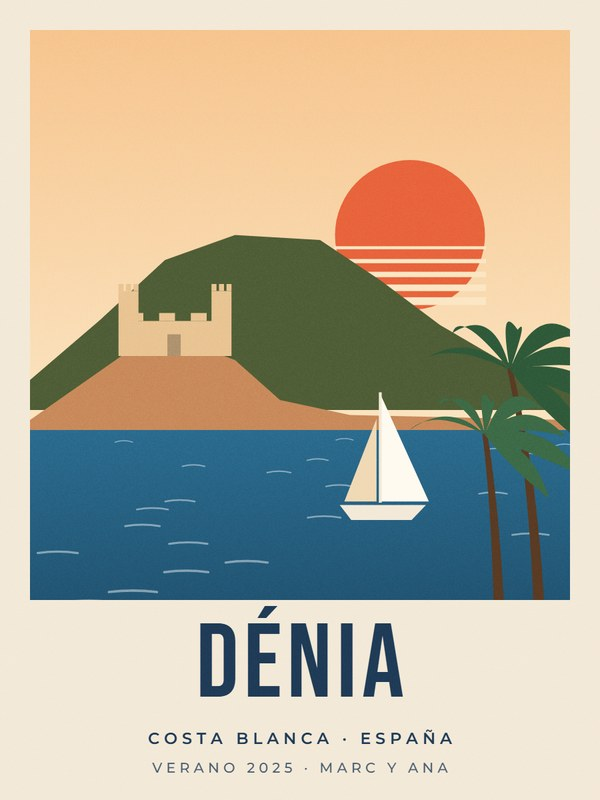
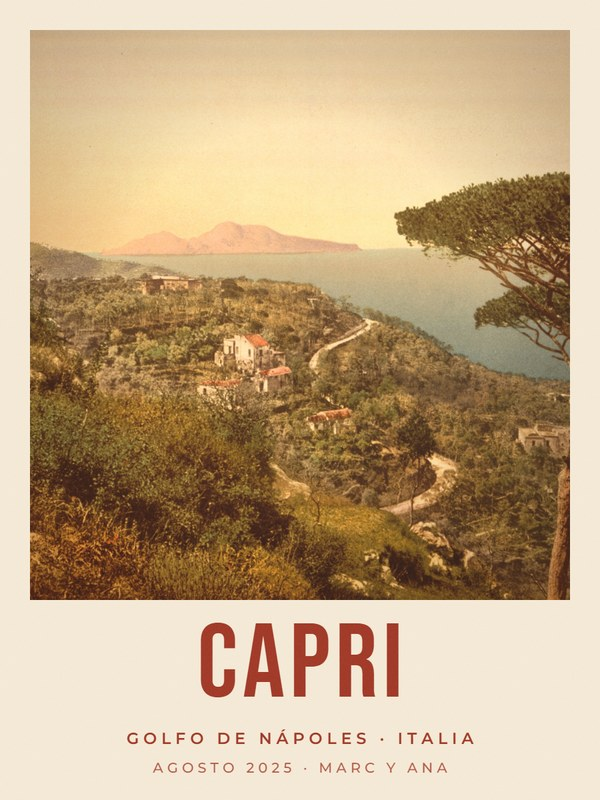
Cartel de viaje: siempre con la foto del cliente
Fuera los estilos «ilustrado» y «paisaje dibujado» (a Marc no le
gustaban). La foto va dentro del marco del cartel, se coloca arrastrando
y con zoom, con tres acabados (natural, cálido retro, un solo color) y
aviso de resolución para 30x40. Muestra y texto de la galería al día.

diff --git a/viaje.html b/viaje.html
@@ -49,7 +49,7 @@
   <div class="pz-panel">
     <div class="pz-eyebrow">Personalizado</div>
     <h1>Vuestro cartel de viaje</h1>
-    <p class="pz-lead">El sitio de aquel viaje, en un cartel de los de antes. Pon el lugar, la fecha y vuestros nombres, y elige los colores.</p>
+    <p class="pz-lead">Vuestra foto de aquel viaje en un cartel de los de antes, con el nombre del lugar, la fecha y vuestros nombres.</p>
 
     <div class="pz-step">
       <label for="place">1. ¿Dónde fuisteis?</label>
@@ -59,15 +59,19 @@
       </div>
     </div>
 
-    <div class="pz-step" id="modoStep">
-      <span class="pz-label">2. Estilo</span>
-      <div class="pz-chips" id="modos"></div>
-      <div class="pz-picked" id="modoNote"></div>
-    </div>
-
-    <div class="pz-step" id="escenaStep">
-      <span class="pz-label">Paisaje</span>
-      <div class="pz-chips" id="escenas"></div>
+    <div class="pz-step" id="fotoStep">
+      <span class="pz-label">2. Vuestra foto <small>(arrástrala en la vista previa para colocarla)</small></span>
+      <label class="pz-chip" style="display:inline-flex;align-items:center;gap:8px;cursor:pointer">
+        <svg width="16" height="16" viewBox="0 0 24 24" fill="none" stroke="currentColor" stroke-width="2" stroke-linecap="round"><path d="M21 15v4a2 2 0 0 1-2 2H5a2 2 0 0 1-2-2v-4"/><polyline points="17 8 12 3 7 8"/><line x1="12" y1="3" x2="12" y2="15"/></svg>
+        <span id="fotoBtnTxt">Subir foto</span>
+        <input type="file" id="fotoIn" accept="image/*" hidden>
+      </label>
+      <div style="height:12px"></div>
+      <label class="pz-label" for="zoom" style="font-weight:500">Zoom</label>
+      <input type="range" id="zoom" min="1" max="3" step="0.01" value="1" style="width:100%;accent-color:#1a1a1a">
+      <div style="height:10px"></div>
+      <div class="pz-chips" id="efectos"></div>
+      <div class="pz-picked" id="fotoNote"></div>
     </div>
 
     <div class="pz-step">
@@ -103,12 +107,15 @@
 <script>
 (function () {
   var $ = function (id) { return document.getElementById(id); }, V = MOM_VIAJE;
-  var st = { lugar: 'Dénia', modo: 'ilustrado', escena: 'costa', paleta: 'original' };
-  var MODOS = [['ilustrado', 'Con sus cosas típicas'], ['sencillo', 'Sencillo']];
+  /* modo: 'foto' (la foto del viaje del cliente) · 'ilustrado' (destinos dibujados) · 'sencillo' (paisaje dibujado) */
+  var st = { lugar: 'Dénia', modo: 'foto', escena: 'costa', paleta: 'original', foto: null, zoom: 1, ox: 0, oy: 0, efecto: 'natural' };
+  var EFECTOS = [['natural', 'Natural'], ['calido', 'Cálido retro'], ['duotono', 'Un solo color']];
   function dest() { return V.destinoDe(st.lugar); }
-  function opts() { return { lugar: st.lugar, modo: dest() ? st.modo : 'sencillo', escena: st.escena, paleta: st.paleta, titulo: $('title').value, sub: $('sub').value, extra: $('extra').value }; }
+  function modos() { return [['foto', 'Con mi foto']].concat(dest() ? [['ilustrado', 'Ilustrado con lo típico']] : []).concat([['sencillo', 'Paisaje dibujado']]); }
+  function modo() { return 'foto'; }   // 17-oct: el cartel de viaje es siempre con la foto del cliente
+  function opts() { return { lugar: st.lugar, modo: modo(), escena: st.escena, paleta: st.paleta, foto: st.foto, zoom: st.zoom, ox: st.ox, oy: st.oy, efecto: st.efecto, titulo: $('title').value, sub: $('sub').value, extra: $('extra').value }; }
   var raf = 0;
-  function render() { cancelAnimationFrame(raf); raf = requestAnimationFrame(function () { var cv = $('cv'), ctx = MOM_P.previewCanvas(cv); ctx.clearRect(0, 0, cv.width, cv.height); V.draw(ctx, cv.width, cv.height, opts()); }); }
+  function render() { cancelAnimationFrame(raf); raf = requestAnimationFrame(function () { var cv = $('cv'), ctx = MOM_P.previewCanvas(cv); ctx.clearRect(0, 0, cv.width, cv.height); V.draw(ctx, cv.width, cv.height, opts()); nota(); }); }
   function chips(id, list, cur, onSel) {
     $(id).innerHTML = '';
     list.forEach(function (it) {
@@ -117,52 +124,77 @@
       $(id).appendChild(b);
     });
   }
-  function setModo(k) { st.modo = k; if (k === 'ilustrado') st.paleta = 'original'; syncModo(); render(); }
+  function nota() {
+    var n = $('fotoNote');
+    if (modo() !== 'foto') return;
+    if (!st.foto) { n.textContent = 'Sube una foto de ese viaje. Mejor horizontal o vertical grande, sacada con buena luz.'; n.style.color = ''; return; }
+    var dpi = V.fotoCalidad(st.foto, opts());
+    if (dpi >= 220) { n.textContent = 'Calidad de imprenta: se verá nítida a 30×40 cm.'; n.style.color = '#2e7d4f'; }
+    else if (dpi >= 150) { n.textContent = 'Buena para 18×24 cm. Para 30×40 conviene una foto con más resolución o menos zoom.'; n.style.color = '#b26b00'; }
+    else { n.textContent = 'La foto tiene poca resolución para este tamaño: se verá algo borrosa. Prueba con el original de la cámara o del móvil.'; n.style.color = '#c0392b'; }
+  }
+  function setModo(k) { st.modo = k; if (k === 'ilustrado') st.paleta = 'original'; sync(); render(); }
   function setEscena(k) { st.escena = k; render(); }
   function escenaList() { return Object.keys(V.escenas).map(function (k) { return [k, V.escenas[k].es]; }); }
   function paletas() {
-    var d = dest(), list = (d && st.modo === 'ilustrado' ? [['original', 'Original']] : []).concat(Object.keys(V.paletas).map(function (k) { return [k, V.paletas[k].es]; }));
+    var d = dest(), list = (d && modo() === 'ilustrado' ? [['original', 'Original']] : []).concat(Object.keys(V.paletas).map(function (k) { return [k, V.paletas[k].es]; }));
     if (!list.some(function (x) { return x[0] === st.paleta; })) st.paleta = list[0][0];
     $('paletas').innerHTML = '';
     list.forEach(function (it) {
       var P = it[0] === 'original' ? Object.assign({}, V.paletas.atardecer, d.p) : V.paletas[it[0]];
       var b = document.createElement('button'); b.type = 'button'; b.className = 'pz-sw'; b.title = it[1]; b.setAttribute('aria-pressed', it[0] === st.paleta);
-      b.innerHTML = '<span style="background:linear-gradient(135deg,' + P.sky1 + ' 0 50%,' + (P.sea1 || P.land2) + ' 50% 100%)"></span>';
+      b.innerHTML = '<span style="background:linear-gradient(135deg,' + P.paper + ' 0 50%,' + P.ink + ' 50% 100%)"></span>';
       b.addEventListener('click', function () { st.paleta = it[0]; paletas(); render(); });
       $('paletas').appendChild(b);
     });
     var cur = list.filter(function (x) { return x[0] === st.paleta; })[0]; $('paletaName').textContent = cur ? cur[1] : '';
   }
-  function syncModo() {
-    var d = dest();
-    $('modoStep').style.display = d ? '' : 'none';
-    $('escenaStep').style.display = d && st.modo === 'ilustrado' ? 'none' : '';
-    $('modoNote').textContent = d ? (st.modo === 'ilustrado' ? 'Dibujado con lo más reconocible del lugar.' : 'Un paisaje sencillo, sin monumentos.') : '';
-    paletas();
+  function sync() {
+    var m = modo();
+    $('paletas').parentNode.querySelector('.pz-label').textContent = '4. Colores del marco y el texto';
+    paletas(); nota();
   }
-  chips('modos', MODOS, st.modo, setModo);
-  chips('escenas', escenaList(), st.escena, setEscena);
+  // la foto: se carga entera (es la que va a imprenta)
+  $('fotoIn').addEventListener('change', function () {
+    var f = this.files && this.files[0]; if (!f) return;
+    var url = URL.createObjectURL(f), im = new Image();
+    im.onload = function () { st.foto = im; st.zoom = 1; st.ox = 0; st.oy = 0; $('zoom').value = 1; $('fotoBtnTxt').textContent = 'Cambiar foto'; render(); };
+    im.src = url;
+  });
+  $('zoom').addEventListener('input', function () { st.zoom = +this.value; render(); });
+  chips('efectos', EFECTOS, st.efecto, function (k) { st.efecto = k; render(); });
+  // arrastrar la foto sobre la vista previa
+  (function () {
+    var cv = $('cv'), drag = null;
+    cv.style.touchAction = 'none';
+    cv.addEventListener('pointerdown', function (e) {
+      if (modo() !== 'foto' || !st.foto) return;
+      var r = V.fotoRect(st.foto, opts()), b = cv.getBoundingClientRect(), k = 1200 / b.width;
+      drag = { x: e.clientX, y: e.clientY, ox: st.ox, oy: st.oy, ex: Math.max(1, (r.w - V.FOTO.w) / 2) / k, ey: Math.max(1, (r.h - V.FOTO.h) / 2) / k };
+      cv.setPointerCapture(e.pointerId);
+    });
+    cv.addEventListener('pointermove', function (e) {
+      if (!drag) return;
+      st.ox = Math.max(-1, Math.min(1, drag.ox + (e.clientX - drag.x) / drag.ex));
+      st.oy = Math.max(-1, Math.min(1, drag.oy + (e.clientY - drag.y) / drag.ey));
+      render();
+    });
+    ['pointerup', 'pointercancel'].forEach(function (ev) { cv.addEventListener(ev, function () { drag = null; }); });
+  })();
   MOM_P.placeSearch($('place'), $('placeRes'), function (p) {
     st.lugar = p.name; $('title').value = p.name;
     var d = dest();
     $('sub').value = d ? d.sub.charAt(0) + d.sub.slice(1).toLowerCase() : (p.country || '');
-    if (d) { st.modo = 'ilustrado'; st.paleta = 'original'; chips('modos', MODOS, st.modo, setModo); }
-    else {
-      if (st.paleta === 'original') st.paleta = 'atardecer';
-      // un paisaje que encaje con el sitio: isla, montaña, ciudad o costa
-      var v = (p.osmKey || '') + ' ' + (p.osmValue || '') + ' ' + p.full.toLowerCase();
-      st.escena = /island|isla|illa|archipel/.test(v) ? 'isla' : /mountain|peak|montaña|sierra|alps|alpes|pirineo|volcano/.test(v) ? 'montana' : /lake|lago/.test(v) ? 'lago' : (p.osmValue === 'city' ? 'ciudad' : 'costa');
-      chips('escenas', escenaList(), st.escena, setEscena);
-    }
-    syncModo(); render();
+    sync(); render();
   });
   ['title', 'sub', 'extra'].forEach(function (id) { $(id).addEventListener('input', render); });
   $('cta').addEventListener('click', function () {
+    if (modo() === 'foto' && !st.foto) { MOM_P.toast('Sube primero la foto de vuestro viaje.'); return; }
     var slug = ($('title').value || 'lugar').toLowerCase().normalize('NFD').replace(/[̀-ͯ]/g, '').replace(/[^a-z0-9]+/g, '-');
     MOM_P.toEditor($('cta'), $('ctaTxt'), function (ctx, W, H) { V.draw(ctx, W, H, opts()); }, 'viaje-' + slug);
   });
   window.addEventListener('resize', render);
-  syncModo();
+  sync();
   if (document.fonts && document.fonts.load) Promise.all(['400 80px "Bebas Neue"', '600 30px Montserrat', '500 30px Montserrat'].map(function (f) { return document.fonts.load(f).catch(function () {}); })).then(render);
   render();
 })();

diff --git a/personaliza/viaje.js b/personaliza/viaje.js
@@ -299,6 +299,48 @@
     santorini: 'santorini', thira: 'santorini', paris: 'paris', kioto: 'kioto', kyoto: 'kioto' };
   function destinoDe(nombre) { var k = ALIAS[norm(nombre)]; return k ? DESTINOS.filter(function (d) { return d.id === k; })[0] : null; }
 
+  /* ── LA FOTO DEL CLIENTE (17-oct-2026) ──
+     Va dentro del hueco de la ilustración (1080 × 1140 del lienzo lógico), a sangre y recortada como «cover»;
+     zoom ≥ 1 y desplazamiento ox/oy en -1..1 (lo que sobra a cada lado). Tres acabados hechos con modos de
+     fusión del canvas (funcionan en todos los navegadores, a diferencia de ctx.filter):
+       natural · calido (velo cálido + un punto de desvaído, como una postal antigua) · duotono (blanco y negro
+       teñido con el color de la paleta, como los carteles de imprenta). */
+  var FOTO = { x: 60, y: 60, w: 1080, h: 1140 };
+  function fotoRect(img, o) {
+    var iw = img.naturalWidth || img.width, ih = img.naturalHeight || img.height;
+    var sc = Math.max(FOTO.w / iw, FOTO.h / ih) * (o.zoom || 1), dw = iw * sc, dh = ih * sc;
+    var ex = (dw - FOTO.w) / 2, ey = (dh - FOTO.h) / 2;
+    return { x: FOTO.x - ex + (o.ox || 0) * ex, y: FOTO.y - ey + (o.oy || 0) * ey, w: dw, h: dh, sc: sc };
+  }
+  function drawFoto(c, p, o) {
+    var img = o.foto;
+    if (!img) {   // aún sin foto: un hueco que invita a subirla
+      rect(c, FOTO.x, FOTO.y, FOTO.w, FOTO.h, shadeHex2(p.paper, 0.92));
+      c.fillStyle = shadeHex2(p.paper, 0.6); c.textAlign = 'center'; c.font = '600 44px Montserrat, Inter, sans-serif';
+      c.fillText('TU FOTO DEL VIAJE', 600, 640); return;
+    }
+    var r = fotoRect(img, o);
+    c.drawImage(img, r.x, r.y, r.w, r.h);
+    if (o.efecto === 'calido') {
+      c.save(); c.globalCompositeOperation = 'soft-light'; c.globalAlpha = 0.45; rect(c, FOTO.x, FOTO.y, FOTO.w, FOTO.h, p.sun); c.restore();
+      c.save(); c.globalAlpha = 0.10; rect(c, FOTO.x, FOTO.y, FOTO.w, FOTO.h, p.sky2); c.restore();
+      var g = c.createRadialGradient(600, 630, 380, 600, 630, 900); g.addColorStop(0, 'rgba(0,0,0,0)'); g.addColorStop(1, 'rgba(60,30,10,.35)');
+      c.fillStyle = g; c.fillRect(FOTO.x, FOTO.y, FOTO.w, FOTO.h);
+    } else if (o.efecto === 'duotono') {
+      c.save(); c.globalCompositeOperation = 'saturation'; rect(c, FOTO.x, FOTO.y, FOTO.w, FOTO.h, '#808080'); c.restore();
+      c.save(); c.globalCompositeOperation = 'color'; rect(c, FOTO.x, FOTO.y, FOTO.w, FOTO.h, p.sea1 || p.ink); c.restore();
+      c.save(); c.globalCompositeOperation = 'screen'; c.globalAlpha = 0.18; rect(c, FOTO.x, FOTO.y, FOTO.w, FOTO.h, p.sky2); c.restore();
+    }
+  }
+  /* ¿llega la foto a 300 ppp en 30 × 40? el hueco mide 1080/1200 del ancho del póster = 3240 px de 3600 */
+  function fotoCalidad(img, o) {
+    if (!img) return null;
+    var r = fotoRect(img, o), need = 3240 / 1080;            // píxeles de imprenta por unidad del lienzo lógico
+    var ppu = 1 / r.sc;                                       // píxeles de la foto por unidad del lienzo
+    var dpi = Math.round(300 * ppu / need);
+    return dpi;
+  }
+
   /* cartel: ilustración arriba y tres líneas de texto abajo (nombre grande, subtítulo y fecha/nombres) */
   function draw(ctx, W, H, o) {
     var dest = o.modo === 'ilustrado' ? destinoDe(o.lugar) : null;
@@ -309,7 +351,8 @@
     rect(c, 0, 0, 1200, 1600, p.paper);
     c.save(); c.beginPath(); c.rect(60, 60, 1080, 1140); c.clip();
     rect(c, 0, 0, 1200, 1300, vgrad(c, 60, 900, p.sky1, p.sky2));
-    if (dest) dest.scene(c, p, R); else (ESCENAS[o.escena] || ESCENAS.costa).draw(c, p, R);
+    if (o.modo === 'foto') drawFoto(c, p, o);
+    else if (dest) dest.scene(c, p, R); else (ESCENAS[o.escena] || ESCENAS.costa).draw(c, p, R);
     c.restore();
     c.fillStyle = p.ink; c.textAlign = 'center'; c.textBaseline = 'alphabetic';
     var name = (o.titulo || '').toUpperCase();
@@ -320,5 +363,5 @@
     c.restore();
     grainLayer(ctx, W, H, 0.05);
   }
-  window.MOM_VIAJE = { draw: draw, escenas: ESCENAS, paletas: PALETAS, destinos: DESTINOS, destinoDe: destinoDe };
+  window.MOM_VIAJE = { fotoCalidad: fotoCalidad, fotoRect: fotoRect, FOTO: FOTO, draw: draw, escenas: ESCENAS, paletas: PALETAS, destinos: DESTINOS, destinoDe: destinoDe };
 })();

diff --git a/galeria.html b/galeria.html
@@ -173,7 +173,7 @@
     <img src="galeria/img/muestra-viaje.jpg" alt="Cartel de viaje personalizado" width="600" height="800" loading="lazy">
     <div><div class="ga-cust-tag"><span class="es">Personalizado</span><span class="en">Personalised</span></div>
       <h3><span class="es">Vuestro cartel de viaje</span><span class="en">Your travel poster</span></h3>
-      <p><span class="es">El sitio de aquel viaje en un cartel retro, con vuestra fecha y vuestros nombres.</span><span class="en">That trip's destination as a retro poster, with your date and names.</span></p>
+      <p><span class="es">Vuestra foto de aquel viaje en un cartel retro, con el lugar, la fecha y vuestros nombres.</span><span class="en">Your photo from that trip in a retro poster, with the place, date and your names.</span></p>
       <span class="ga-cust-go"><span class="es">Crear el mío →</span><span class="en">Create mine →</span></span></div>
   </a>
 </section>
